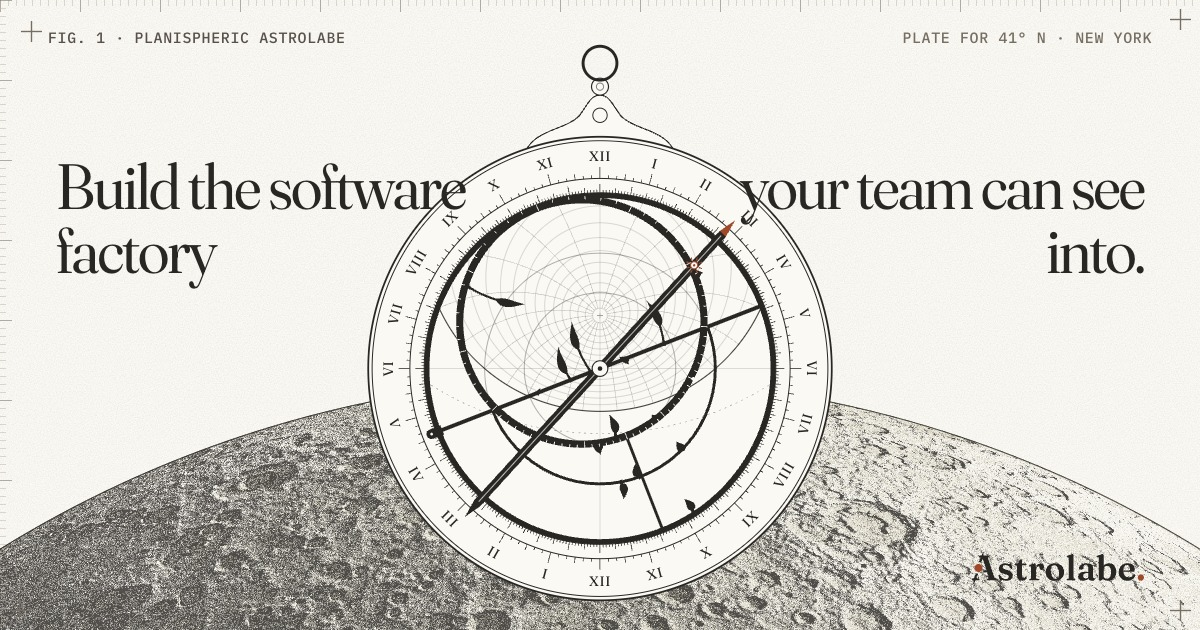
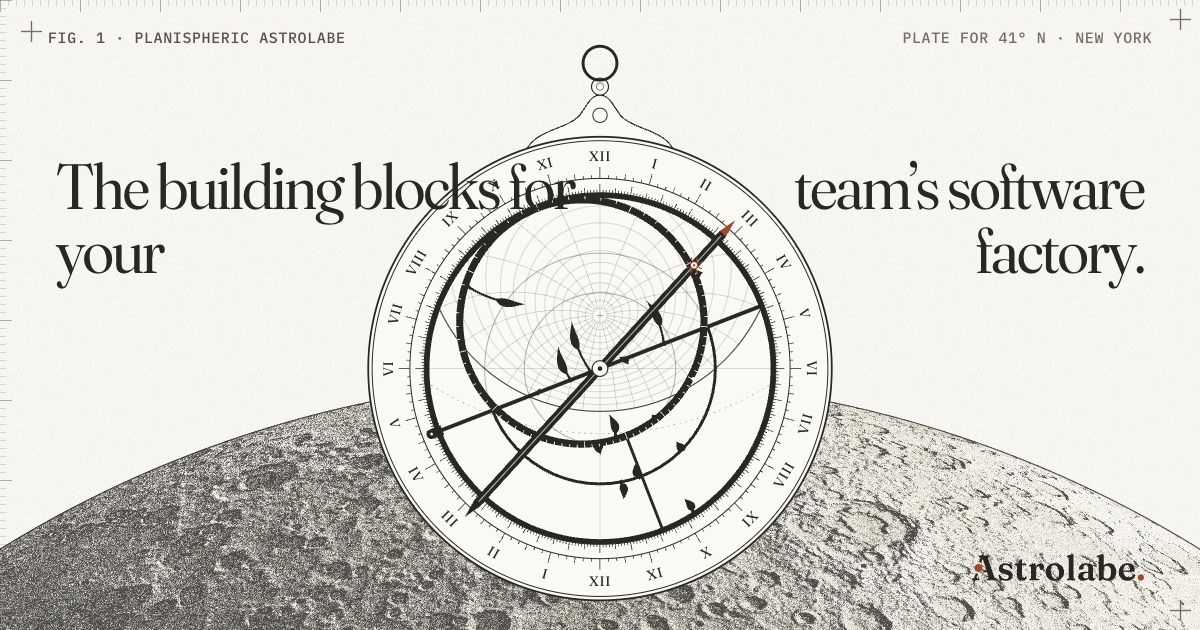
chore(landing): share cards carry the new headline
The two-wing cards break the headline at a word that ends a phrase, so it
reads The building blocks, then for your team's software factory.

diff --git a/apps/landing/cards/frame.js b/apps/landing/cards/frame.js
@@ -41,20 +41,42 @@ export function fit(el, width, max) {
 // stop, or at the space nearest the middle when the line is one sentence.
 export function wings(line) {
   const stop = line.indexOf(". ");
-  const at = stop >= 0 ? stop + 1 : middleSpace(line);
+  const at = stop >= 0 ? stop + 1 : breakAt(line);
   for (const [el, half] of [
     [document.querySelector(".wing--left"), line.slice(0, at).trim()],
     [document.querySelector(".wing--right"), line.slice(at).trim()],
   ]) {
-    const space = half.lastIndexOf(" ");
+    const space = breakAt(half);
     el.append(half.slice(0, space), document.createElement("br"), half.slice(space + 1));
   }
 }
 
-function middleSpace(line) {
+// A line never ends on a word that leads into the next one ("for", "your").
+const LEADING = new Set([
+  "a",
+  "an",
+  "the",
+  "for",
+  "of",
+  "to",
+  "in",
+  "on",
+  "and",
+  "with",
+  "your",
+  "our",
+]);
+
+// The space nearest the middle, moved back past any leading word it would leave at a line's end.
+function breakAt(line) {
   let best = line.length;
   for (let i = line.indexOf(" "); i >= 0; i = line.indexOf(" ", i + 1)) {
     if (Math.abs(i - line.length / 2) < Math.abs(best - line.length / 2)) best = i;
+  }
+  while (best > 0 && best < line.length) {
+    const before = line.lastIndexOf(" ", best - 1);
+    if (before < 0 || !LEADING.has(line.slice(before + 1, best).toLowerCase())) break;
+    best = before;
   }
   return best;
 }
